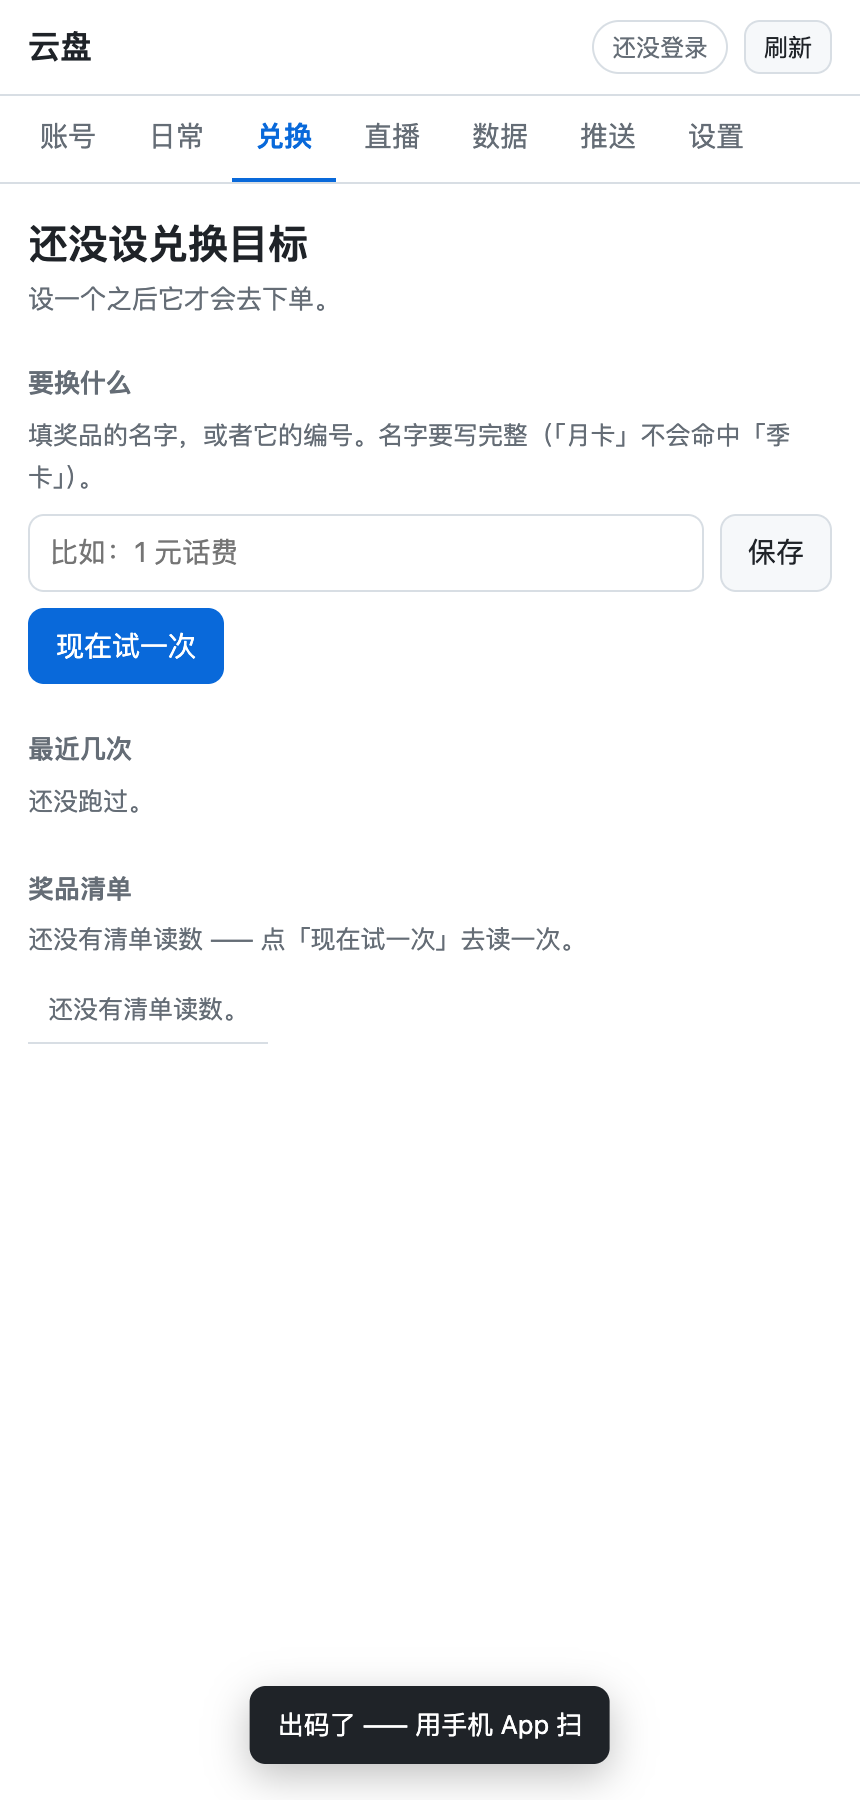
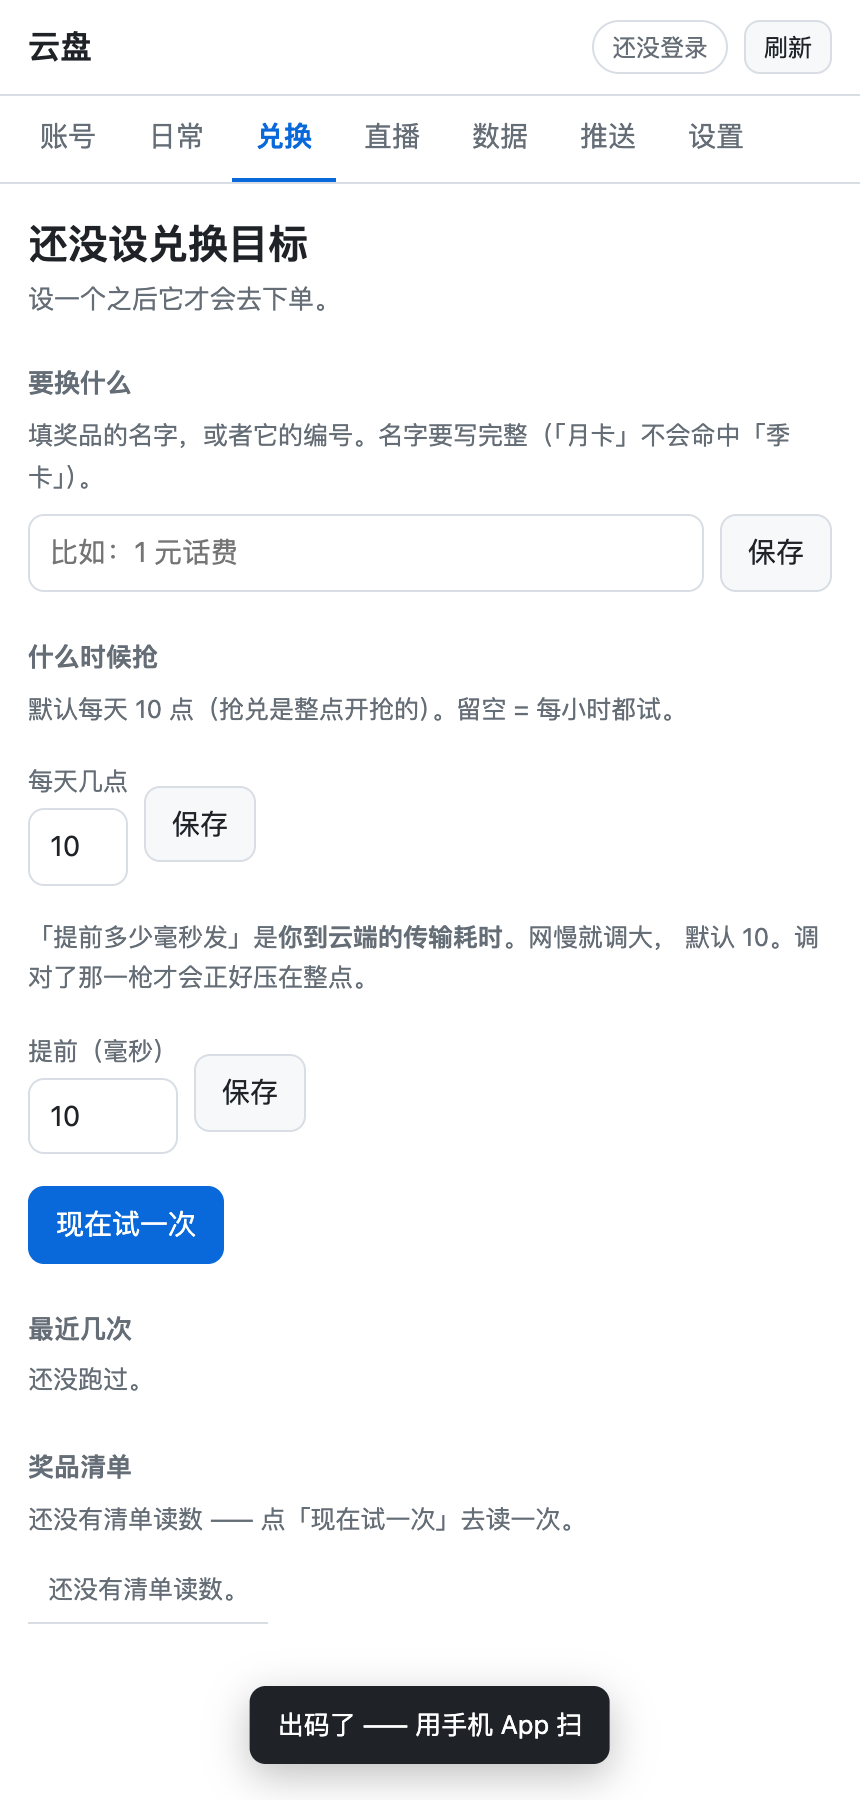
截图验收：抓到「字面 Markdown 显示出来」；写真机验收清单（⑤-5）
# 一、截图抓到一个静态测试看不见的缺陷

`docs/shots/03-exchange.png` 里那行字**真的显示出了四个星号**：

    「提前多少毫秒发」是**你到云端的传输耗时**。

HTML 不是 Markdown，`**` 就是两个字符。这是**只有渲染才暴露**的那类缺陷 ——
静态测试不"看"页面，`docs.test.ts` 的用词规则也不管标点。

修成 `<b>`，并加一条测试钉住：**可见文本里不许出现字面 Markdown**
（HTML 注释里的不算 —— 那是给维护者看的文档，不会被渲染）。

⚠ 顺带做了**负向验证**：把 `**` 塞回去，那条测试确实红了（不是一条永远绿的摆设）。

# 二、`shots.mjs` 退出码非 0

`chrome.kill()` 只是发信号，进程还在写 profile 目录时就 `rmSync` ⇒

    ENOTEMPTY, Directory not empty

截图本身是成功的（9 张都在），但**退出码非 0** —— 而"截图脚本报错"会让人
以为截图坏了。改成：等 `exit` 事件（5 秒上限）再删，删除带重试，
实在删不掉就**警告而不失败**（那只是临时目录）。

顺手在脚本头写了一句：别 `rm -rf` 输出目录 —— 里面还有 `README.md`
（这次就是这么把 `docs/shots/README.md` 删掉的，`docs.test.ts` 立刻报死链）。

# 三、真机验收清单（⑤-5）

这一步**只能在你的真机上做**（打真上游 / 扫真码 / 花真豆），所以把它拆成
「照着点」的 8 步：`docs/acceptance-real.md`。每步写清**看什么算过**、
**不过要回报什么**。

最要紧的是第 5 步（真抢）：

| 现象 | 说明什么 |
|---|---|
| 没抢到，但**只发了一枪** | 正常的抢兑失败，不是 bug |
| **发了两枪以上** | **小时闸失效** —— 最严重，立刻回报 |
| 界面停在「正在抢兑窗口里」很久 | 自旋卡住 —— 回报日志与当时时刻 |

第 4 步（干跑）是**安全的**，可以随便点：它只读清单、查余额、预热、取题解滑块，
到"只差下单"就停。

# 验收

    npm test              713 项（+1：字面 Markdown）
    产物一致性 ✅ · split_check 105 项 ✅ · e2e exit 0 / 18 ✅
    真面板加载零警告 · 4 插件 · 3 个独占自动抬到 4 线程 · 侧边栏 1 个入口 · 41 条路由
    9 张截图重出（真面板 + 真 CDP 渲染）

diff --git a/test/docs.test.ts b/test/docs.test.ts
@@ -134,6 +134,17 @@ test('README 说的任务数，与 `split_check` 断言的条数一致', () => {
 
 // ── ⑤ 用词规则要**可执行**（不然它只是一张纸） ──────────────────────
 
+test('⚠ UI 里不许有**字面 Markdown 标记**（HTML 不渲染它，会原样显示）', () => {
+  // 实测抓到的：`<p class="hint">「提前多少毫秒发」是**你到云端的传输耗时**。</p>`
+  // —— 页面上真的显示出了那四个星号。HTML 不是 Markdown，`**` 就是两个字符。
+  // ⚠ 截图之前看不出来（静态测试不会"看"页面）—— 这类缺陷只有渲染才暴露。
+  const html = readFileSync(new URL('../plugins/mcloud/index.html', import.meta.url), 'utf8');
+  // ⚠ HTML 注释里的 `**` 是**给维护者看的**文档，不算（它不会被渲染）
+  const visible = html.replace(/<!--[\s\S]*?-->/g, '');
+  const hits = visible.match(/\*\*[^*\n]{1,60}\*\*/g) ?? [];
+  assert.deepEqual(hits, [], `可见文本里出现了字面 Markdown：${hits.join(' / ')}`);
+});
+
 test('⚠ 界面里不许出现用词规则禁掉的那些词', () => {
   // `docs/ui-wording.md` 写了规则，但规则写成文档就只是"一张纸" ——
   // 这一版的新界面就是**规则写完才做的**，于是当场踩了四处（`上游` ×4）。

diff --git a/plugins/mcloud/index.html b/plugins/mcloud/index.html
@@ -177,7 +177,7 @@
             <input id="ex-hour" type="number" min="0" max="23" placeholder="10" /></label>
           <button class="btn" id="ex-hour-save">保存</button>
         </div>
-        <p class="hint">「提前多少毫秒发」是**你到云端的传输耗时**。网慢就调大，
+        <p class="hint">「提前多少毫秒发」是<b>你到云端的传输耗时</b>。网慢就调大，
           默认 10。调对了那一枪才会正好压在整点。</p>
         <div class="row">
           <label class="field"><span>提前（毫秒）</span>

diff --git a/docs/acceptance-real.md b/docs/acceptance-real.md
@@ -1,0 +1,167 @@
+# 真机验收（⑤-5）
+
+这一步**只能在你的真机上做** —— 它要打真上游、要扫真码、要花真豆。
+下面把它拆成「照着点」的步骤，每步都写清**看什么算过**、**不过要回报什么**。
+
+> 本地能验的都已经验过了（`npm test` 712 项 · `split_check.py` 105 项 ·
+> `e2e-mock.sh` 18 项 · 9 张截图）。这一份是**剩下那一半**。
+
+---
+
+## 0 · 起面板
+
+```bash
+cd /Users/catlair/mobile/workspace/rust-plugin-panel
+cargo build --release          # 约 25 秒
+
+# 起面板（令牌自定，下面用 t）
+BIND_ADDR=127.0.0.1:8080 \
+PLUGINS_DIR=/Users/catlair/mobile/workspace/mcloud-plugin/plugins \
+DB_PATH=./data/mc.sqlite \
+PANEL_TOKEN=t \
+./target/release/plugin-panel
+```
+
+**看什么算过**：启动日志里有这四行，且**一条 `warn` 都没有**。
+
+```
+[engine] ENGINE_WORKERS=2，但有 3 个插件声明了 worker_hint('exclusive') ⇒ 自动抬到 4 条执行线程
+[engine]   `mcloud-daily` → worker 3（**独占**…）
+[engine]   `mcloud-exchange` → worker 2（**独占**…）
+[engine]   `mcloud-live` → worker 1（**独占**…）
+```
+
+打开 <http://127.0.0.1:8080/> → 左侧应有一个 **☁ 云盘** 入口。
+
+**不过要回报什么**：那四行的实际内容、以及任何 `warn`/`error` 原文。
+
+---
+
+## 1 · 登录（扫码）
+
+界面 → **账号** → 「扫码登录」。
+
+**看什么算过**：
+
+1. 二维码**真的显示出来**（不是空白框）—— 早期版本这里是空的（`svg` 只在
+   `/login/qr/start` 返回，而界面只调 `/readings`）
+2. 手机 App 扫 → 手机上点确认 → 界面**自己**变成「已登录 138xxxxxxxx」
+3. 「账号」区块出现一条账号，可以切换/删除
+
+**不过要回报什么**：卡在第几步、界面上的原话、以及面板日志里 `[mcloud]` 那几行。
+
+---
+
+## 2 · 登录（另外两种）
+
+同一个「账号」区块里还有 **短信** 与 **账密**。
+
+**看什么算过**：
+
+- **短信**：填手机号 → 发码 → 填码 → 有时会出现滑块（拖一下）→ 登录成功
+- **账密**：填手机号 + 密码 → **一个请求就完事**（不是"推进一步"那种状态机）
+
+**注意**：短信滑块那一步是**唯一**该出现"分步"的地方 —— 因为等的是**你**。
+账密不该有分步。
+
+---
+
+## 3 · 日常（真跑一次）
+
+界面 → **日常** → 「现在跑一次」。
+
+**看什么算过**：
+
+1. 下面「最近几次」多出一条，**默认展开**
+2. 展开后是**一串步骤**（不是一行 JSON）：每一步一行，名字 + 结果
+3. 有任何一步失败，那一步是**红的**，且失败原因写的是人话
+4. 面板日志里 `[mcloud-daily]` 有**一次**运行的记录（不是 25 条）
+
+**⚠ 重点看**：结果对不对 —— 签到/领取那几步有没有真的生效（去 App 里核一下）。
+
+**不过要回报什么**：那张步骤列表的原话（截图最好）。
+
+---
+
+## 4 · 兑换（**干跑**，不花豆）
+
+界面 → **兑换** → 先填「要换什么」（比如 `1元话费`）→ 「现在试一次」。
+
+**看什么算过**：
+
+1. 顶部那行显示「离这一场还有 X · 每天 10 点 · 压整点前 10ms 发」
+2. 点「现在试一次」之后，结果里**明确有一句「一枪都没发」**
+3. 「奖品清单」出现真实奖品与余量
+4. 面板日志里**没有** `exchangeV3` 这一条请求
+
+**⚠ 这一步是安全的** —— 干跑只读清单、查余额、预热、取题解滑块，
+到"只差下单"就停。真下单只走定时那一场。
+
+**不过要回报什么**：那句「一枪都没发」在不在、清单有没有出来。
+
+---
+
+## 5 · 兑换（**真抢**，会花豆 —— 想清楚了再做）
+
+1. 「每天几点」填一个**最近**的整点（比如现在是 14:20，就填 `15`）
+2. 到点前 1 分钟盯着「兑换」页
+3. 到 `hh:59:40` 那行字应该变成「正在抢兑窗口里」
+4. 整点过后「最近几次」多一条，里面能看到：
+   - `压整点前 10ms 发`
+   - 每个账号的 `离第一枪 +Nms`（多账号时）
+
+**看什么算过**：豆真的少了 / 奖品真的到了，且**只发了一枪**。
+
+**⚠ 不过要回报什么**（这一条最要紧）：
+
+| 现象 | 说明什么 |
+|---|---|
+| 抢到了 | 一切正常 |
+| 没抢到，但只发了一枪 | 正常的抢兑失败（手速/网络），不是 bug |
+| **发了两枪以上** | **小时闸失效** —— 这是最严重的，立刻回报 |
+| 界面停在「正在抢兑窗口里」很久 | 自旋卡住 —— 回报面板日志与当时时刻 |
+
+---
+
+## 6 · 直播
+
+界面 → **直播** → 贴口令 → 「贴进去领取」。
+
+**看什么算过**：四态结论（`200108` / `200112` / `200118` / 未分类）各自对应
+人话，而不是错误码。
+
+---
+
+## 7 · 推送
+
+界面 → **推送** → 配一个渠道（比如 PushPlus）→ 「试一下」。
+
+**看什么算过**：
+
+1. 配过之后显示「已配」，没配的显示「填」
+2. 「试一下」真的收到消息
+3. **密钥不回显** —— 显示的是 `abc…yz（共 N 字符）` 这种
+4. 跑完一次「日常」之后，收到一条**汇总**（一次运行一条，不是每步一条）
+
+---
+
+## 8 · 设置
+
+界面 → **设置**。
+
+**看什么算过**：所有口子**平铺**在这里，**没有「高级」开关**，
+也没有任何"藏起来"的东西。
+
+---
+
+## 回报模板
+
+```text
+步骤 N：
+  期望：…
+  实际：…
+  界面原话/截图：…
+  面板日志（[mcloud*] 那几行）：…
+```
+
+面板日志在启动那个终端里；也可以 `tail -f` 那一份。

diff --git a/docs/redesign-plan.md b/docs/redesign-plan.md
@@ -301,7 +301,28 @@
       实现细节：链的状态是**一整块** blob，两阶段之间要 `snapshotOrder` /
       `restoreOrder` 分别存（否则第二个账号的 `startOrder` 覆盖第一个的进度）。
       验收：`test/exchangeOrder.test.ts` 25 项（+3）。
-- [ ] ③-3 时间可配 + 状态显示
+- [x] ③-3 时间可配 + 状态显示　✅ 本条（`47c205f`）
+      · **目标时刻可配**：`targetHour`（默认 10 点，参考实现是 `0 10 * * *`）；
+        留空 = 每小时都试。用**本地时区**算 —— 用户说"10 点"指的是他的 10 点。
+        窗口**跨整点**（(H-1):59:40 → H:00:15），所以判据不能只看小时数：
+        09:59:40 的本地小时是 9，但它已经在 10 点那一场的窗口里了；0 点那场跨午夜。
+      · **提前量可配**：`leadMs` 0~2000ms（默认 10）。它是**本地到云端的传输耗时
+        补偿**，网慢的人该调大。越界被路由挡住 —— >2s 就不是补偿了，是"提前跑"。
+      · **状态显示**：读数里有 `toTargetMs` / `targetHour` / `leadMs` / `inWindow` /
+        `orderedThisHour`，界面第一行直接说人话
+        （「离这一场还有 3 分 20 秒 · 每天 10 点 · 压整点前 10ms 发」）。
+      ⚠ **顺带修了一个更要紧的东西**：任务挂 `@every 10s`，而清单请求原来排在
+      时间判断**之前** ⇒ 一天 **8,640 次白打**。现在时间闸在**任何请求之前**，
+      不在窗口里就零请求秒返回 —— 它是 `@every 10s` 能成立的前提，不是优化。
+      ⚠ **「现在试一次」改成干跑**：清单/余额/预热/取题都做完，到"只差下单"就停，
+      **一枪都不发**。按钮标签是"试一次"，用户想知道的是「现在能不能兑」——
+      而那一枪发出去真扣豆且不可逆。真下单只走定时那一场。
+      （顺手把 `runExchange` 从入口挪到 `tasks/exchangeRun.ts` —— 入口顶层会
+      `register_cron`，路由 import 它会让任务被注册两遍。）
+      ⚠ 一个被测试抓到的出口漏洞：干跑那条说明第一版加在函数**末尾**，而
+      "没设兑换目标"是**提前返回**的 ⇒ 干跑路由的结果里看不出它一枪都没发。
+      改成所有出口走一个 `finish()`。
+      验收：`test/exchangeTiming.test.ts` 29 项（+5）· `split_check.py` 105 项（+15）。
 
 ### 阶段 ④ 直播
 
@@ -360,7 +381,13 @@
       验收：`test/runLog.test.ts` 14 项 · `test/query.test.ts` 10 项 ·
       `split_check.py` 79 项（+16）· 截图 `09-daily-recent.png`。
       顺带压出 **F-045**（见下）并回面板修了文档。
-- [ ] ⑤-5 真机验收
+- [ ] ⑤-5 真机验收　⏳ **只能在你的真机上做**（打真上游 / 扫真码 / 花真豆）
+      清单写好了：[`docs/acceptance-real.md`](acceptance-real.md) —— 8 步，每步写清
+      「看什么算过」与「不过要回报什么」。
+      本地能验的已经全验过：`npm test` 712 项 · `split_check.py` 105 项 ·
+      `e2e-mock.sh` 18 项 · 9 张截图（真面板 + 真 CDP 渲染）。
+      ⚠ 这一步**不是"没做"**，是**做不了** —— 它需要你的账号、你的手机、你的豆。
+      最要紧的观察点是第 5 步：**只发了一枪吗**（小时闸失效的话会多发，那是真花钱）。
 
 ---
 
@@ -411,4 +438,5 @@
 | 2026-10-15 | ⑤-2 按「一次运行」组织的日志 + **F-045**（回面板修了文档） | `mcloud-plugin` `74dd090` / 面板 `e8c3bf4` |
 | 2026-10-15 | ③-1 毫秒级兑换链：两段等待 + 小时闸 + 10 秒节拍 | `mcloud-plugin` `cedca63` |
 | 2026-10-15 | ③-2 核实「并行做不到」⇒ 改为串行两阶段（**F-046**） | `mcloud-plugin` `10548a8` |
-| 2026-10-15 | ③-3 时间可配 + 状态显示；顺带修 8,640 次/天白打；「试一次」改干跑 | `mcloud-plugin` 本条 |
+| 2026-10-15 | ③-3 时间可配 + 状态显示；顺带修 8,640 次/天白打；「试一次」改干跑 | `mcloud-plugin` `47c205f` |
+| 2026-10-15 | 截图验收抓到「字面 Markdown 显示出来」；修 `shots.mjs` 退出竞态；写真机验收清单 | `mcloud-plugin` 本条 |

diff --git a/README.md b/README.md
@@ -148,6 +148,7 @@ mcloud-plugin/
 | [`docs/smid-chain.md`](docs/smid-chain.md) · [`docs/upload-chain.md`](docs/upload-chain.md) | 两条比较绕的链路的实测记录 |
 | [`docs/shots/`](docs/shots/README.md) | 界面截图（七个区块各一张 + 扫码） |
 | [`docs/design-history.md`](docs/design-history.md) | **开工前的设计稿**（历史；有些判断后来被推翻了，为什么留着见文件头） |
+| [`docs/acceptance-real.md`](docs/acceptance-real.md) | **真机验收清单**（这一步只能在你的真机上做 —— 照着点，每步写清看什么算过） |
 
 ## 起名即分组
 
